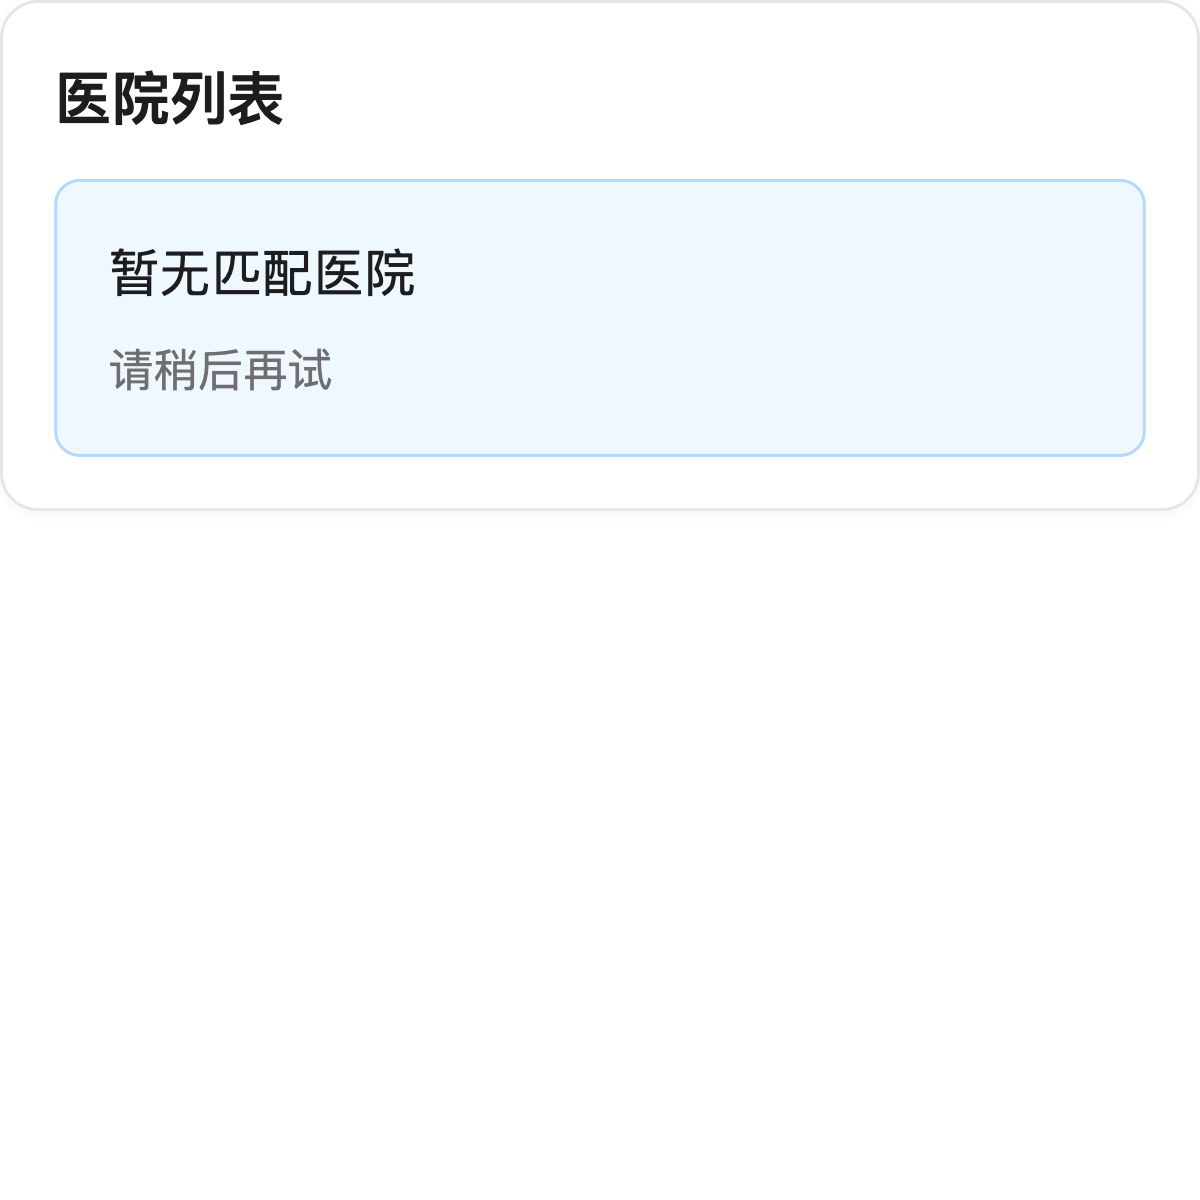
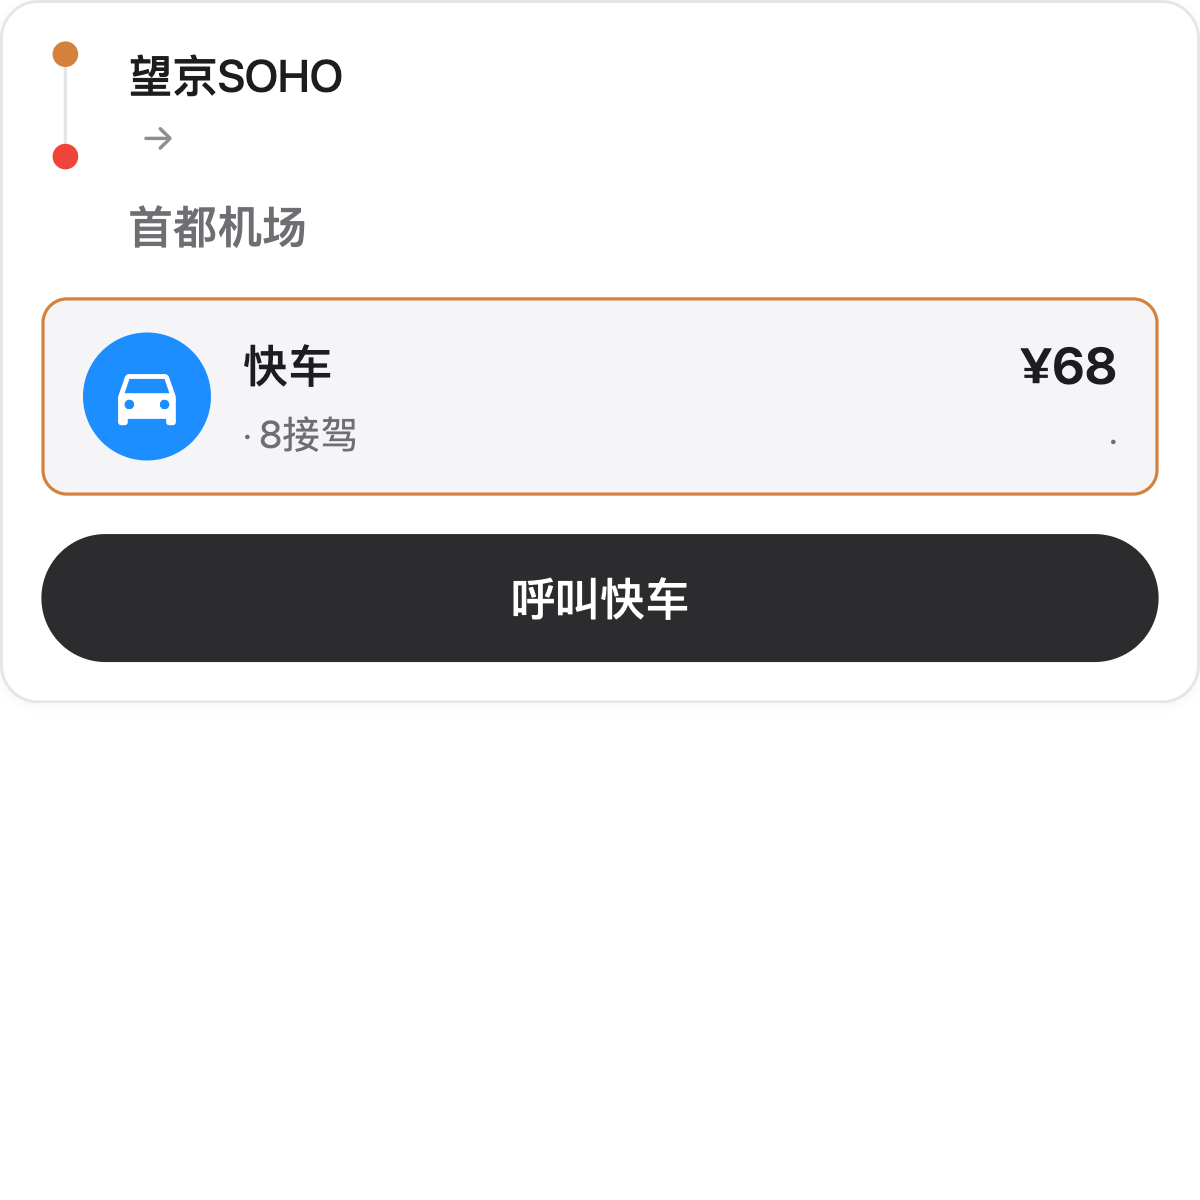
fix: correct screenshot mappings and add water-tracker README
- Regenerate taxi-estimate.png (was showing hospital content)
- Regenerate drink-search.png (was showing incorrect content)
- Update README card images: hospital→hospital-booking, taxi→taxi-history
- Add missing water-tracker/README.md to fix broken link

Changed region(s): [[0.0, 0.0308, 1.0, 0.5858]]

diff --git a/skills/water-tracker/README.md b/skills/water-tracker/README.md
@@ -1,0 +1,37 @@
+# water-tracker
+
+喝水记录，支持记录每日饮水量、查看饮水历史和今日进度。
+
+## 功能
+
+- 记录本次喝水量，查看当天累计和目标进度
+- 查看最近日期的饮水记录
+
+## 用户输入示例
+
+- "我刚喝了 250 毫升水，帮我记一下"
+- "记录一杯 300ml 的水"
+- "今天喝了多少水了"
+- "看下我最近几天的喝水情况"
+- "帮我回顾一下今天的饮水记录"
+
+## 原子接口
+
+| 接口名 | 说明 |
+|--------|------|
+| `addWaterRecord` | 记录一次喝水量 |
+| `getWaterRecords` | 查询饮水记录 |
+
+## 原子组件
+
+| 组件路径 | 说明 |
+|---------|------|
+| `components/add-water-result/index` | 喝水记录结果卡片 |
+| `components/water-records/index` | 饮水记录列表卡片 |
+
+## 后端依赖
+
+| 资源 | 名称 |
+|------|------|
+| 云函数 | `water-tracker-handler` |
+| 数据库集合 | `water_records` |

diff --git a/README.md b/README.md
@@ -38,8 +38,8 @@ cd awesome-miniprogram-skills
     <td width="50%" align="center"><a href="skills/order-skill/README.md"><img src="assets/screenshots/order-search-restaurants.png" width="100%" alt="order-skill"></a><br><b><a href="skills/order-skill/README.md">order-skill</a></b><br>外卖点餐 · 4 API</td>
   </tr>
   <tr>
-    <td width="50%" align="center"><a href="skills/hospital-skill/README.md"><img src="assets/screenshots/hospital-list.png" width="100%" alt="hospital-skill"></a><br><b><a href="skills/hospital-skill/README.md">hospital-skill</a></b><br>医院挂号 · 4 API</td>
-    <td width="50%" align="center"><a href="skills/taxi-skill/README.md"><img src="assets/screenshots/taxi-estimate.png" width="100%" alt="taxi-skill"></a><br><b><a href="skills/taxi-skill/README.md">taxi-skill</a></b><br>出行打车 · 4 API</td>
+    <td width="50%" align="center"><a href="skills/hospital-skill/README.md"><img src="assets/screenshots/hospital-booking.png" width="100%" alt="hospital-skill"></a><br><b><a href="skills/hospital-skill/README.md">hospital-skill</a></b><br>医院挂号 · 4 API</td>
+    <td width="50%" align="center"><a href="skills/taxi-skill/README.md"><img src="assets/screenshots/taxi-history.png" width="100%" alt="taxi-skill"></a><br><b><a href="skills/taxi-skill/README.md">taxi-skill</a></b><br>出行打车 · 4 API</td>
   </tr>
   <tr>
     <td width="50%" align="center"><a href="skills/travel-skill/README.md"><img src="assets/screenshots/travel-destinations.png" width="100%" alt="travel-skill"></a><br><b><a href="skills/travel-skill/README.md">travel-skill</a></b><br>旅行规划 · 4 API</td>